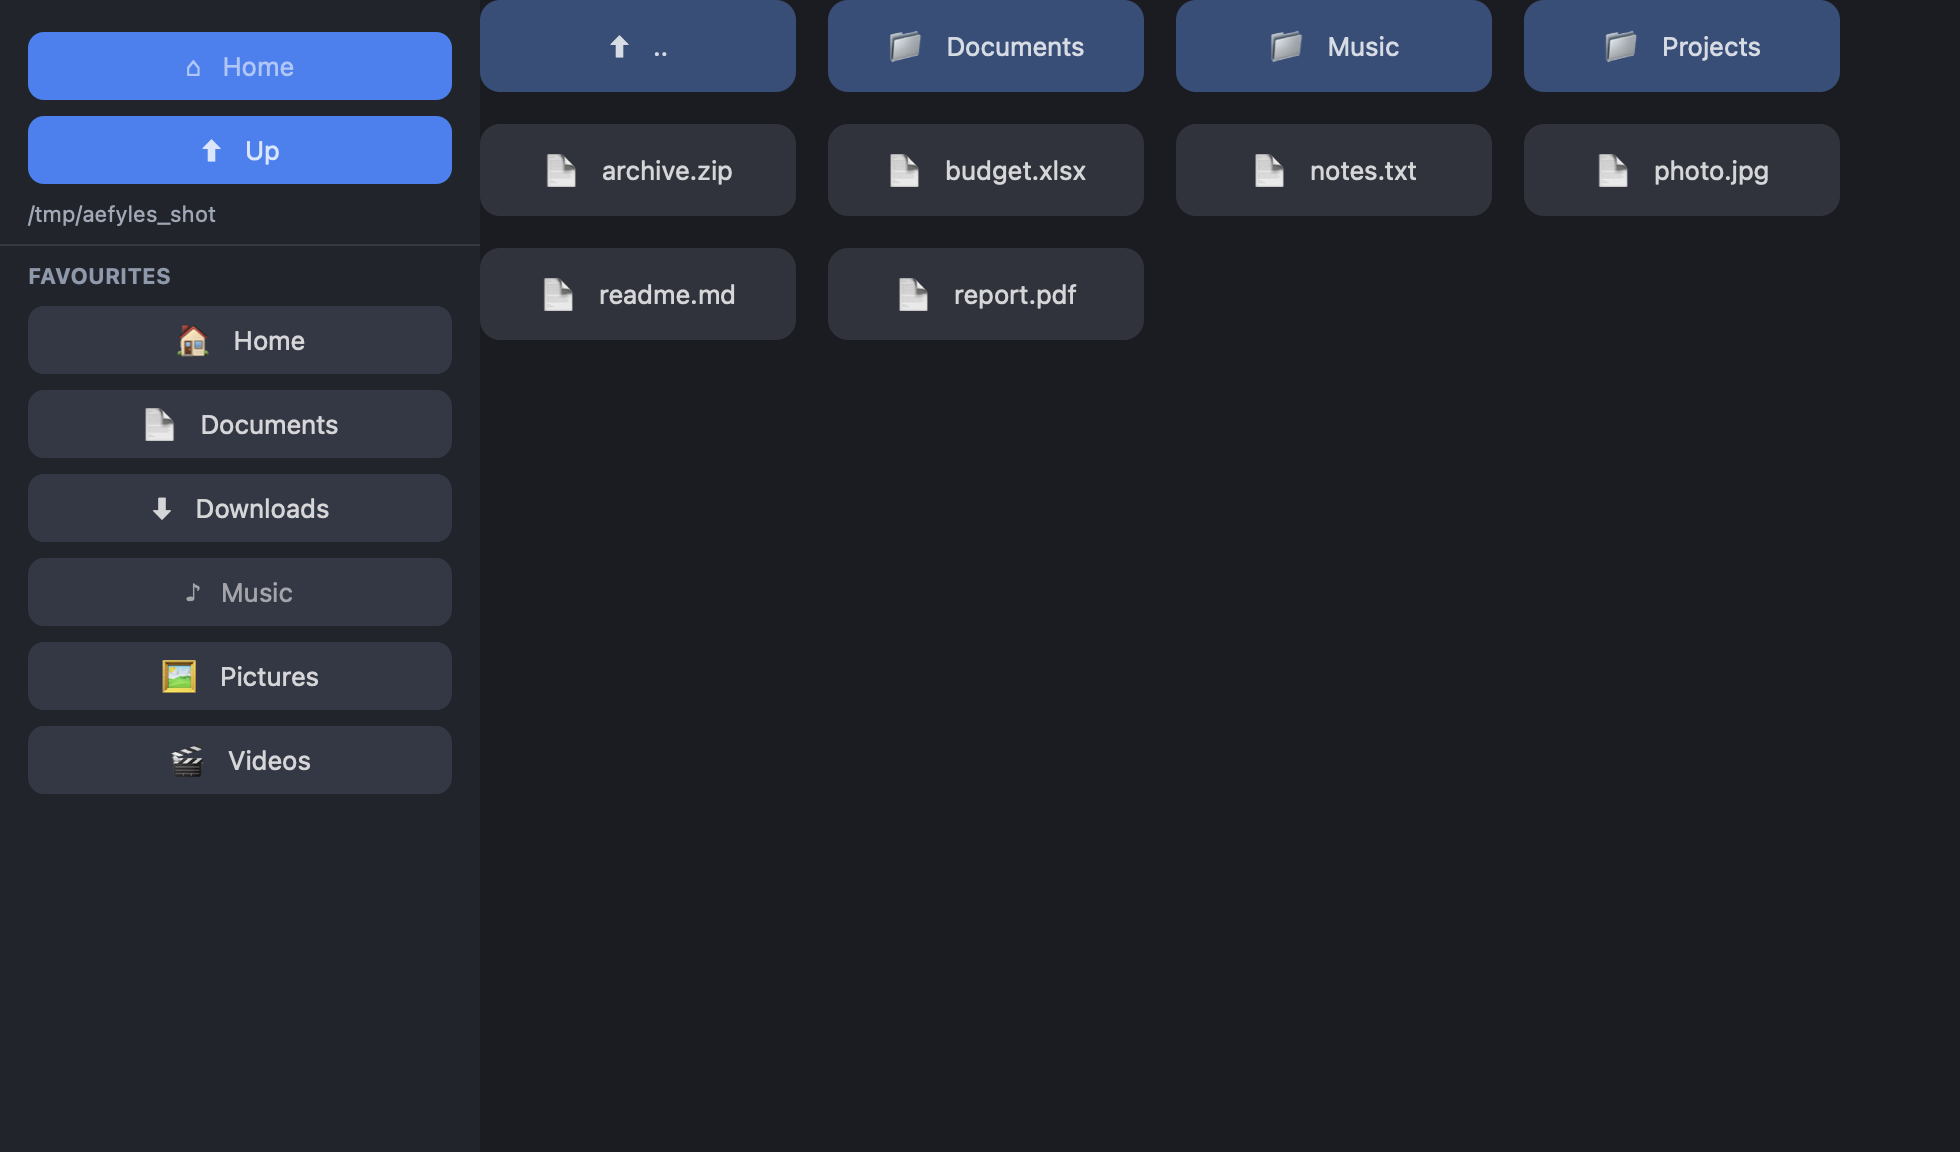
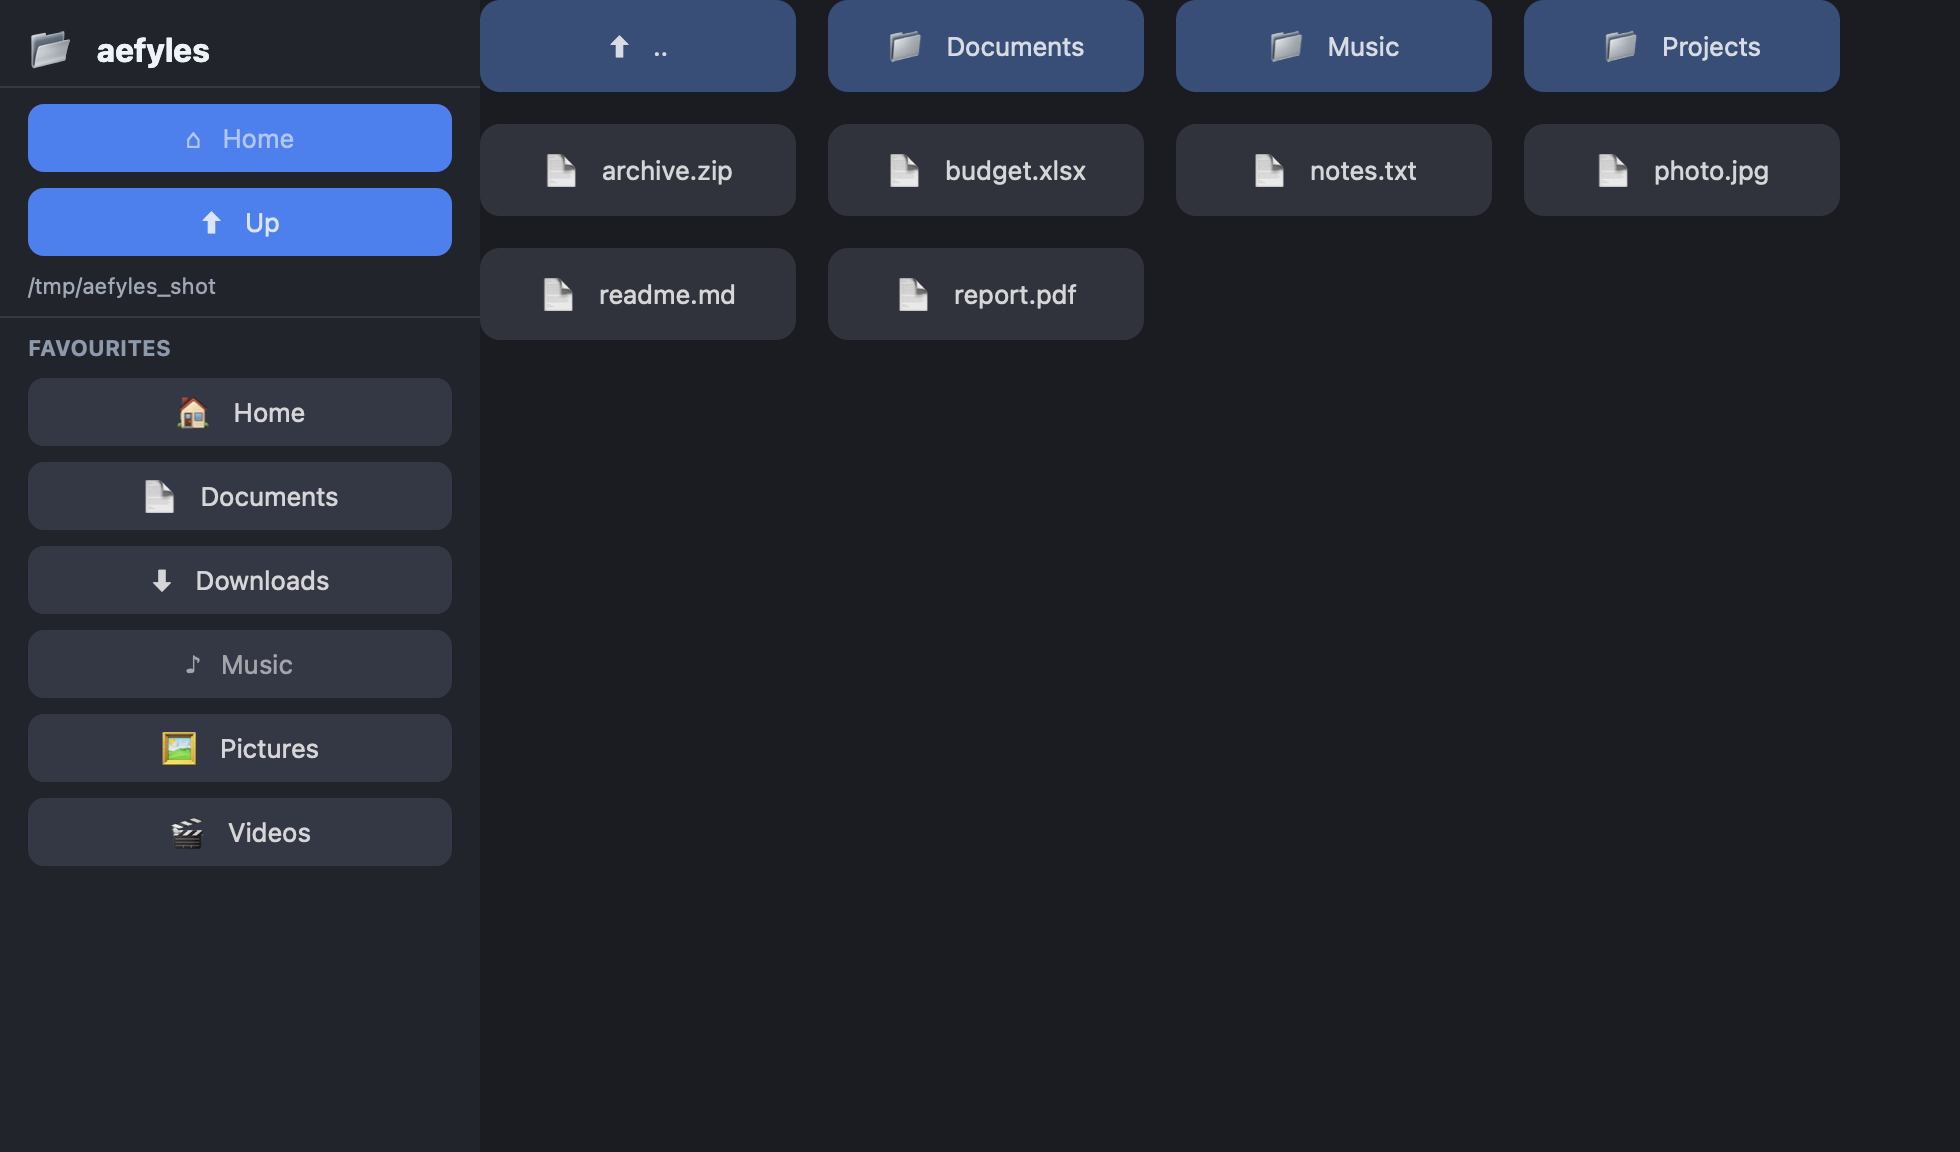
perf + polish: O(n log n) sort, hover states, empty-folder, sidebar brand
Performance
  * sort_entries is now a stable bottom-up merge sort — O(n log n) vs the old
    O(n^2) insertion sort (a directory can hold tens of thousands of entries).
    Merging reads one buffer and writes another, which also sidesteps the
    string_list get/set read-after-free that an in-place swap hits.
  * Tests exercise it: the fixture now has 8 visible mixed-case entries
    (3 dirs + 5 files) so the merge runs several passes; order asserted exactly.

Beauty
  * Folder/file cards and sidebar buttons brighten on hover (on_hover's
    enter/exit int drives a bg-only re-tint — no constraint churn).
  * Empty directories show a muted "This folder is empty" message.
  * "📂 aefyles" brand caps the sidebar.

Tests: 30 model assertions + 12 AetherUIDriver checks (added an empty-state
assertion), all green. README notes the perf characteristics + the stat-per-
entry cost (std.fs.list_dir drops d_type — filed upstream). Refreshed
img/screenshot.png.

Upstream gaps filed: aether#966 (list_dir d_type), aether#967 (string_list
sort), aether-ui#7 (runtime window title).

Changed region(s): [[0.0, 0.0, 0.249, 0.75]]

diff --git a/README.md b/README.md
@@ -98,8 +98,15 @@ its "Under Remote Control" banner) — off by default, so a normal run is clean.
   Pictures, Videos).
 - **File grid** — the current directory: folders first (blue cards), then
   files, sorted case-insensitively, dotfiles hidden, with a `⬆  ..` cell to go
-  up. Click a folder to descend; click a file to open it with the OS default
-  app (`open` on macOS, `xdg-open` on Linux).
+  up. Cards brighten on hover; an empty directory shows an "empty" message.
+  Click a folder to descend; click a file to open it with the OS default app
+  (`open` on macOS, `xdg-open` on Linux).
+
+**Performance.** The listing sort is a stable O(n log n) bottom-up merge sort
+(`model.ae`), so a directory with tens of thousands of entries sorts in
+milliseconds. The one cost left is a `stat(2)` per entry to tell a directory
+from a file — `std.fs.list_dir` returns only names, dropping the `d_type`
+`readdir(2)` already provides ([filed upstream](https://github.com/aether-lang-org/aether/issues)).
 
 ### Notes & limitations
 